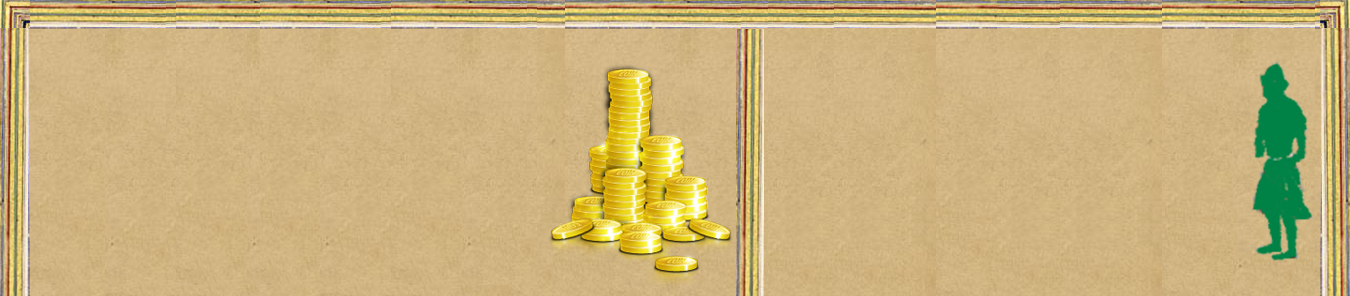
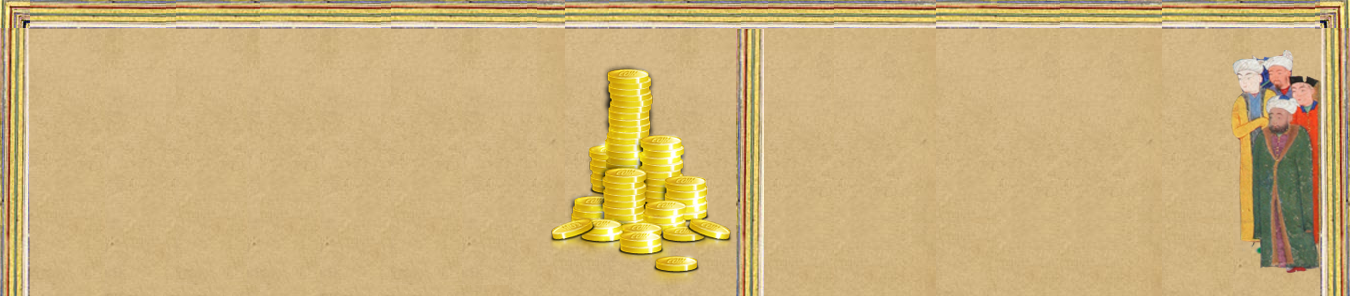
Player UI done

Changed region(s): [[0.9022, 0.1824, 0.9956, 0.9122]]

diff --git a/jscripts/node.js b/jscripts/node.js
@@ -263,18 +263,8 @@ function Node(_id, _nucl, isCity, graphLayer, _graph_id, _player_id, gui) {
                 player.setNodeToBeMapped(null);
             }
             //Show population
-            /*switch(node.getNodeLevel()) {
-                case 1 : gui.setPopulation(node.getNodeLevel(), environment.getUILayer(), Const.N1_IMAGE); break;
-                case 2 : gui.setPopulation(node.getNodeLevel(), environment.getUILayer(), Const.N2_IMAGE); break;
-                case 3 : gui.setPopulation(node.getNodeLevel(), environment.getUILayer(), Const.N3_IMAGE); break;
-                case 4 : gui.setPopulation(node.getNodeLevel(), environment.getUILayer(), Const.N4_IMAGE); break;
-                case 5 : gui.setPopulation(node.getNodeLevel(), environment.getUILayer(), Const.N5_IMAGE); break;
-                case 6 : gui.setPopulation(node.getNodeLevel(), environment.getUILayer(), Const.N6_IMAGE); break;
-                case 7 : gui.setPopulation(node.getNodeLevel(), environment.getUILayer(), Const.N7_IMAGE); break;
-                case 8 : gui.setPopulation(node.getNodeLevel(), environment.getUILayer(), Const.N8_IMAGE); break;
-                case 9 : gui.setPopulation(node.getNodeLevel(), environment.getUILayer(), Const.N9_IMAGE); break;
-                default : gui.setPopulation(node.getNodeLevel(), environment.getUILayer(), Const.N0_IMAGE); break;
-            }*/
+            gui.removePopulation();
+            gui.setPopulation(base.getPopulation());
             nodes = null;
             edges = null;
 
@@ -361,18 +351,8 @@ function Node(_id, _nucl, isCity, graphLayer, _graph_id, _player_id, gui) {
                 //TODO : remove the graphical indication - Andrey add removal drag mapping HERE <--
             }
             //Show population
-            /*switch(node.getNodeLevel()) {
-                case 1 : gui.setPopulation(node.getNodeLevel(), environment.getUILayer(), Const.N1_IMAGE); break;
-                case 2 : gui.setPopulation(node.getNodeLevel(), environment.getUILayer(), Const.N2_IMAGE); break;
-                case 3 : gui.setPopulation(node.getNodeLevel(), environment.getUILayer(), Const.N3_IMAGE); break;
-                case 4 : gui.setPopulation(node.getNodeLevel(), environment.getUILayer(), Const.N4_IMAGE); break;
-                case 5 : gui.setPopulation(node.getNodeLevel(), environment.getUILayer(), Const.N5_IMAGE); break;
-                case 6 : gui.setPopulation(node.getNodeLevel(), environment.getUILayer(), Const.N6_IMAGE); break;
-                case 7 : gui.setPopulation(node.getNodeLevel(), environment.getUILayer(), Const.N7_IMAGE); break;
-                case 8 : gui.setPopulation(node.getNodeLevel(), environment.getUILayer(), Const.N8_IMAGE); break;
-                case 9 : gui.setPopulation(node.getNodeLevel(), environment.getUILayer(), Const.N9_IMAGE); break;
-                default : gui.setPopulation(node.getNodeLevel(), environment.getUILayer(), Const.N0_IMAGE); break;
-            }*/
+            gui.removePopulation();
+            gui.setPopulation(base.getPopulation());
             nodes = null;
             edges = null;
         }
@@ -425,39 +405,8 @@ function Node(_id, _nucl, isCity, graphLayer, _graph_id, _player_id, gui) {
                 }
             }
 
-            //gui.hidePopulation();
-
-            if (player.getSelectedNode() != null) {
-                //Show population
-                /* switch(player.getSelectedNode().getNodeLevel()) {
-                     case 1 : gui.setPopulation(player.getSelectedNode().getNodeLevel(), environment.getUILayer(), Const.N1_IMAGE); break;
-                     case 2 : gui.setPopulation(player.getSelectedNode().getNodeLevel(), environment.getUILayer(), Const.N2_IMAGE); break;
-                     case 3 : gui.setPopulation(player.getSelectedNode().getNodeLevel(), environment.getUILayer(), Const.N3_IMAGE); break;
-                     case 4 : gui.setPopulation(player.getSelectedNode().getNodeLevel(), environment.getUILayer(), Const.N4_IMAGE); break;
-                     case 5 : gui.setPopulation(player.getSelectedNode().getNodeLevel(), environment.getUILayer(), Const.N5_IMAGE); break;
-                     case 6 : gui.setPopulation(player.getSelectedNode().getNodeLevel(), environment.getUILayer(), Const.N6_IMAGE); break;
-                     case 7 : gui.setPopulation(player.getSelectedNode().getNodeLevel(), environment.getUILayer(), Const.N7_IMAGE); break;
-                     case 8 : gui.setPopulation(player.getSelectedNode().getNodeLevel(), environment.getUILayer(), Const.N8_IMAGE); break;
-                     case 9 : gui.setPopulation(player.getSelectedNode().getNodeLevel(), environment.getUILayer(), Const.N9_IMAGE); break;
-                     default : gui.setPopulation(player.getSelectedNode().getNodeLevel(), environment.getUILayer(), Const.N0_IMAGE); break;
-                 }
-             }
-             if (player.getNodeToBeMapped() != null) {
-                 //Show population
-                 /*switch(player.getNodeToBeMapped().getNodeLevel()) {
-                     case 1 : gui.setPopulation(player.getNodeToBeMapped().getNodeLevel(), environment.getUILayer(), Const.N1_IMAGE); break;
-                     case 2 : gui.setPopulation(player.getNodeToBeMapped().getNodeLevel(), environment.getUILayer(), Const.N2_IMAGE); break;
-                     case 3 : gui.setPopulation(player.getNodeToBeMapped().getNodeLevel(), environment.getUILayer(), Const.N3_IMAGE); break;
-                     case 4 : gui.setPopulation(player.getNodeToBeMapped().getNodeLevel(), environment.getUILayer(), Const.N4_IMAGE); break;
-                     case 5 : gui.setPopulation(player.getNodeToBeMapped().getNodeLevel(), environment.getUILayer(), Const.N5_IMAGE); break;
-                     case 6 : gui.setPopulation(player.getNodeToBeMapped().getNodeLevel(), environment.getUILayer(), Const.N6_IMAGE); break;
-                     case 7 : gui.setPopulation(player.getNodeToBeMapped().getNodeLevel(), environment.getUILayer(), Const.N7_IMAGE); break;
-                     case 8 : gui.setPopulation(player.getNodeToBeMapped().getNodeLevel(), environment.getUILayer(), Const.N8_IMAGE); break;
-                     case 9 : gui.setPopulation(player.getNodeToBeMapped().getNodeLevel(), environment.getUILayer(), Const.N9_IMAGE); break;
-                     default : gui.setPopulation(player.getNodeToBeMapped().getNodeLevel(), environment.getUILayer(), Const.N0_IMAGE); break;
-                 }
-             }*/
-            }
+            gui.setPopulationVisibility(true);
+            gui.removeHoverPopulation();
         }
     }
 
@@ -486,19 +435,8 @@ function Node(_id, _nucl, isCity, graphLayer, _graph_id, _player_id, gui) {
                     mapped_node.getBase().setVisible(true);
                 }
 
-                //Show population
-                /*switch(node.getNodeLevel()) {
-                    case 1 : gui.setPopulation(node.getNodeLevel(), environment.getUILayer(), Const.N1_IMAGE); break;
-                    case 2 : gui.setPopulation(node.getNodeLevel(), environment.getUILayer(), Const.N2_IMAGE); break;
-                    case 3 : gui.setPopulation(node.getNodeLevel(), environment.getUILayer(), Const.N3_IMAGE); break;
-                    case 4 : gui.setPopulation(node.getNodeLevel(), environment.getUILayer(), Const.N4_IMAGE); break;
-                    case 5 : gui.setPopulation(node.getNodeLevel(), environment.getUILayer(), Const.N5_IMAGE); break;
-                    case 6 : gui.setPopulation(node.getNodeLevel(), environment.getUILayer(), Const.N6_IMAGE); break;
-                    case 7 : gui.setPopulation(node.getNodeLevel(), environment.getUILayer(), Const.N7_IMAGE); break;
-                    case 8 : gui.setPopulation(node.getNodeLevel(), environment.getUILayer(), Const.N8_IMAGE); break;
-                    case 9 : gui.setPopulation(node.getNodeLevel(), environment.getUILayer(), Const.N9_IMAGE); break;
-                    default : gui.setPopulation(node.getNodeLevel(), environment.getUILayer(), Const.N0_IMAGE); break;
-                }*/
+                gui.setPopulationVisibility(false);
+                gui.setHoverPopulation(base.getPopulation());
             }
         }
     }

diff --git a/jscripts/tree.js b/jscripts/tree.js
@@ -1,14 +1,19 @@
 //the tree instance
-function Tree(layer, x, y)
-{
-    var coordinate = Tuple2d(x,y);
+function Tree(layer, x, y) {
+    var coordinate = Tuple2d(x, y);
     var treeBitmap = new Bitmap(treeImage);
     treeBitmap.setTransform(x - treeBitmap.image.width / 2.0, y - treeBitmap.image.height / 2.0, Const.TREE_SCALE, Const.TREE_SCALE);
-    var treeShadowBitmap = new Bitmap(treeShadowImage);
-    treeShadowBitmap.alpha = Const.SHADOW;
-    treeShadowBitmap.setTransform(x - treeBitmap.image.width / 3.0, y - treeBitmap.image.height / 30.0, Const.TREE_SCALE, Const.TREE_SCALE);
+    //var treeShadowBitmap = new Bitmap(treeShadowImage);
+    //treeShadowBitmap.alpha = Const.SHADOW;
+    //treeShadowBitmap.setTransform(x - treeBitmap.image.width / 3.0, y - treeBitmap.image.height / 30.0, Const.TREE_SCALE, Const.TREE_SCALE);
 
-    layer.addChild(treeBitmap, treeShadowBitmap);
+    layer.addChild(treeBitmap);//treeShadowBitmap
+
+
+    // @return {Container} the mapping layer
+    this.getPos = function () {
+        return coordinate;
+    }
 }
 
 //Checks if a tree is as far as a given distance from all the other already placed trees
@@ -32,6 +37,18 @@ function isTreeSeperated(graph, posX, posY) {
     return true;
 }
 
+function isTreeSeperatedFromTree(posX, posY, trees) {
+    var distance = 0.0;
+    for (var i = 0; i < trees.length; i++) {
+        if (trees[i].getPos() != null) {
+            distance = trees[i].getPos().getDistanceFrom(new Tuple2d(posX, posY));
+            if (distance < Const.MIN_INBETWEEN_TREE_DISTANCE)
+                return false;
+        }
+    }
+    return true;
+}
+
 //draws all the background tree bitmaps
 function plantTrees(x, y, w, h, max_number, graphA, graphB, treelayer, trees) {
 	var number = 0;
@@ -41,7 +58,7 @@ function plantTrees(x, y, w, h, max_number, graphA, graphB, treelayer, trees) {
     while(number < max_number) {
         tmpX = Math.random()*w + x;
         tmpY = Math.random()*h + y;
-        if (isTreeSeperated(graphA, tmpX, tmpY) & isTreeSeperated(graphB, tmpX, tmpY)) {
+        if (isTreeSeperated(graphA, tmpX, tmpY) & isTreeSeperated(graphB, tmpX, tmpY) & isTreeSeperatedFromTree(tmpX, tmpY, trees)) {
             tree = new Tree(treelayer, tmpX, tmpY);
             trees.push(tree);
             number++;

diff --git a/jscripts/constants.js b/jscripts/constants.js
@@ -22,18 +22,20 @@ function Constants() {
     this.STARTING_GOLD = 1000;
     this.GOLD_SCALE = 0.3;
     this.INFO_PANEL_SCALE = 0.15;
+    this.POPULATION_SCALE = 0.4;
+    this.POPULATION_INBETWEEN = 65.0;
     
     this.BASE_CITY_SCALE = 0.45;
     this.BASE_TOWER_SCALE = 0.2;
 
-    this.CITY_SELECTION_SCALE1 = 0.17;
-    this.CITY_SELECTION_SCALE2 = 0.12;
+    this.CITY_SELECTION_SCALE1 = 0.19;
+    this.CITY_SELECTION_SCALE2 = 0.14;
     this.CARAVAN_SCALE = 0.06;
     this.CARAVAN_MOVING_TIME = 200;
     this.CARAVAN_TRADING_TIME = 5000;
-    this.CAMP_SELECTION_SCALE = 0.14;
+    this.CAMP_SELECTION_SCALE = 0.15;
     this.SELECTION_ALPHA = 0.75;
-    this.SELECTED_BASE_ALPHA = 0.48;
+    this.SELECTED_BASE_ALPHA = 0.45;
     this.BASE_SELECTION_SPEED = 1000;
 
     //this.BASE_SELECTION_SPEED = 1000;
@@ -43,7 +45,7 @@ function Constants() {
     this.CITY_GRAPH_WIDTH = this.WORLD_WIDTH / 3.0;
     this.CITY_GRAPH_HEIGHT = this.WORLD_HEIGHT - this.WORLD_HEIGHT / 8.0;
 
-    this.CITY_ICON_SCALE = 0.35;
+    this.CITY_ICON_SCALE = 0.4;
     
     /*PALACE_X : 0.0,
 	PALACE_Y : -23.0,
@@ -124,19 +126,19 @@ function Constants() {
     this.TOWER_GRAPH_WIDTH = this.WORLD_WIDTH / 3.0;
     this.TOWER_GRAPH_HEIGHT = this.WORLD_HEIGHT - this.WORLD_HEIGHT / 8.0;
 
-    this.DEEVE_SPAWN_RATE = 0.3; // seconds
-    this.DEEVE_NUMBER = 300;
+    this.DEEVE_SPAWN_RATE = 1.0; // seconds
+    this.DEEVE_NUMBER = 100;
     this.DEEVE_CAVE_SCALE = 0.17;
     this.DEEVE_WAVE_WAITING_TIME = 5000,
-    this.DEEVE_SCALE = 0.8,
-    this.DEEVE_SPEED = 30,
+    this.DEEVE_SCALE = 0.7,
+    this.DEEVE_SPEED = 100,
 
-    this.TREE_SCALE = 0.81,
-    this.MAX_TREE_NUMBER = 1800,
-    this.MIN_INBETWEEN_TREE_DISTANCE = 10.0,
-    this.MIN_CAVE_TREE_DISTANCE = this.WORLD_WIDTH / 9.0,
-    this.MIN_CITY_TREE_DISTANCE = this.WORLD_WIDTH / 43.0,
-    this.MIN_TOWER_TREE_DISTANCE = this.WORLD_WIDTH / 63.0,
+    this.TREE_SCALE = 0.63,
+    this.MAX_TREE_NUMBER = 300,
+    this.MIN_INBETWEEN_TREE_DISTANCE = this.WORLD_WIDTH / 20.0,
+    this.MIN_CAVE_TREE_DISTANCE = this.WORLD_WIDTH / 6.5,
+    this.MIN_CITY_TREE_DISTANCE = this.WORLD_WIDTH / 12.0,
+    this.MIN_TOWER_TREE_DISTANCE = this.WORLD_WIDTH / 13.0,
 
     this.MAPPING_POINT_X = 0.0;
     this.MAPPING_POINT_Y = 0.0;

diff --git a/jscripts/gui.js b/jscripts/gui.js
@@ -30,7 +30,50 @@ function Gui(uiLayer) {
     infoPanel.setTransform(Const.WINDOW_WIDTH / 2.0 - infoPanel.image.width / 2 * Const.INFO_PANEL_SCALE, Const.WORLD_HEIGHT - infoPanel.image.height * Const.INFO_PANEL_SCALE, Const.INFO_PANEL_SCALE, Const.INFO_PANEL_SCALE);
     infoPanel.alpha = 1.0;
     uiLayer.addChild(infoPanel);
+    var population = [];
+    var hoverPopulation = [];
     var goldAmount = new Digits(uiLayer, Const.WINDOW_WIDTH / 2.0 - infoPanel.image.width / 7.0 * Const.INFO_PANEL_SCALE, Const.WORLD_HEIGHT - infoPanel.image.height / 2.0 * Const.INFO_PANEL_SCALE, Const.GOLD_SCALE);
+
+    this.setPopulation = function (amount) {
+        var tmpBitmap;
+        for (var i = 0; i < amount; i++) {
+            tmpBitmap = new Bitmap(populationImage);
+            tmpBitmap.setTransform(Const.WINDOW_WIDTH / 2.0 + Const.POPULATION_INBETWEEN - i*10.0, Const.WORLD_HEIGHT - infoPanel.image.height / 1.5 * Const.INFO_PANEL_SCALE, Const.POPULATION_SCALE, Const.POPULATION_SCALE);
+            uiLayer.addChild(tmpBitmap);
+            population.push(tmpBitmap);
+        }
+    }
+
+    this.setPopulationVisibility = function (bool) {
+        for (var i = 0; i < population.length; i++)
+            population[i].visible = bool;
+    }
+
+    this.removePopulation = function () {
+        var tmpBitmap;
+        for (var i = 0; i < population.length; i++) {
+            uiLayer.removeChild(population[i]);
+        }
+        population = [];
+    }
+
+    this.setHoverPopulation = function (amount) {
+        var tmpBitmap;
+        for (var i = 0; i < amount; i++) {
+            tmpBitmap = new Bitmap(populationImage);
+            tmpBitmap.setTransform(Const.WINDOW_WIDTH / 2.0 + Const.POPULATION_INBETWEEN - i * 10.0, Const.WORLD_HEIGHT - infoPanel.image.height / 1.5 * Const.INFO_PANEL_SCALE, Const.POPULATION_SCALE, Const.POPULATION_SCALE);
+            uiLayer.addChild(tmpBitmap);
+            hoverPopulation.push(tmpBitmap);
+        }
+    }
+
+    this.removeHoverPopulation = function () {
+        var tmpBitmap;
+        for (var i = 0; i < hoverPopulation.length; i++) {
+            uiLayer.removeChild(hoverPopulation[i]);
+        }
+        hoverPopulation = [];
+    }
 
     /** 
     *   sets the UI gold to the given amount

diff --git a/jscripts/content.js b/jscripts/content.js
@@ -4,7 +4,7 @@ var manifest = [
     { id: "graphDataB",    src: "graphData/3CGP_modified.txt" },
     { id: "background",    src: "images/Background/bg.png" },
     { id: "cave",          src: "images/Cave/cave.png" },
-    { id: "tree",          src: "images/Background/tree.png" },
+    { id: "tree",          src: "images/Background/treeVer2.png" },
     { id: "treeShadow",    src: "images/Background/tree_shadow.png" },
     { id: "cityBase", src: "images/City/cityBase.png" },
     { id: "cityIcon", src: "images/City/cityIcon.png" },
@@ -35,7 +35,8 @@ var manifest = [
     { id: "n8",            src: "images/UI/8.png" },
     { id: "n9",            src: "images/UI/9.png" },
     { id: "n0",            src: "images/UI/0.png" },
-    { id: "infoPanel",     src: "images/UI/infoPanel.png" },
+    { id: "infoPanel", src: "images/UI/infoPanel.png" },
+    { id: "population", src: "images/UI/population.png" }
 ];
 // List of all Images
 var bgImage;
@@ -72,6 +73,7 @@ var n8Image;
 var n9Image;
 var n0Image;
 var infoPanelImage;
+var populationImage;
 
 //general public function for creating resources(called once for every resource)
 function createResource(id) {
@@ -120,4 +122,5 @@ function loadImages() {
     n9Image = createResource("n9");
     n0Image = createResource("n0");
     infoPanelImage = createResource("infoPanel");
+    populationImage = createResource("population");
 }

diff --git a/jscripts/deeve.js b/jscripts/deeve.js
@@ -69,7 +69,8 @@ function Deeve(_pointsList, _deeveList) {
     }
 
     deeveBmpAnimation.x = currentPosition.x;
-    deeveBmpAnimation.y = currentPosition.y;    
+    deeveBmpAnimation.y = currentPosition.y;
+    deeveBmpAnimation.setTransform(currentPosition.x, currentPosition.y, Const.DEEVE_SCALE, Const.DEEVE_SCALE);
 
     deeveLevel = 1;
     stoppingDist = 1;
